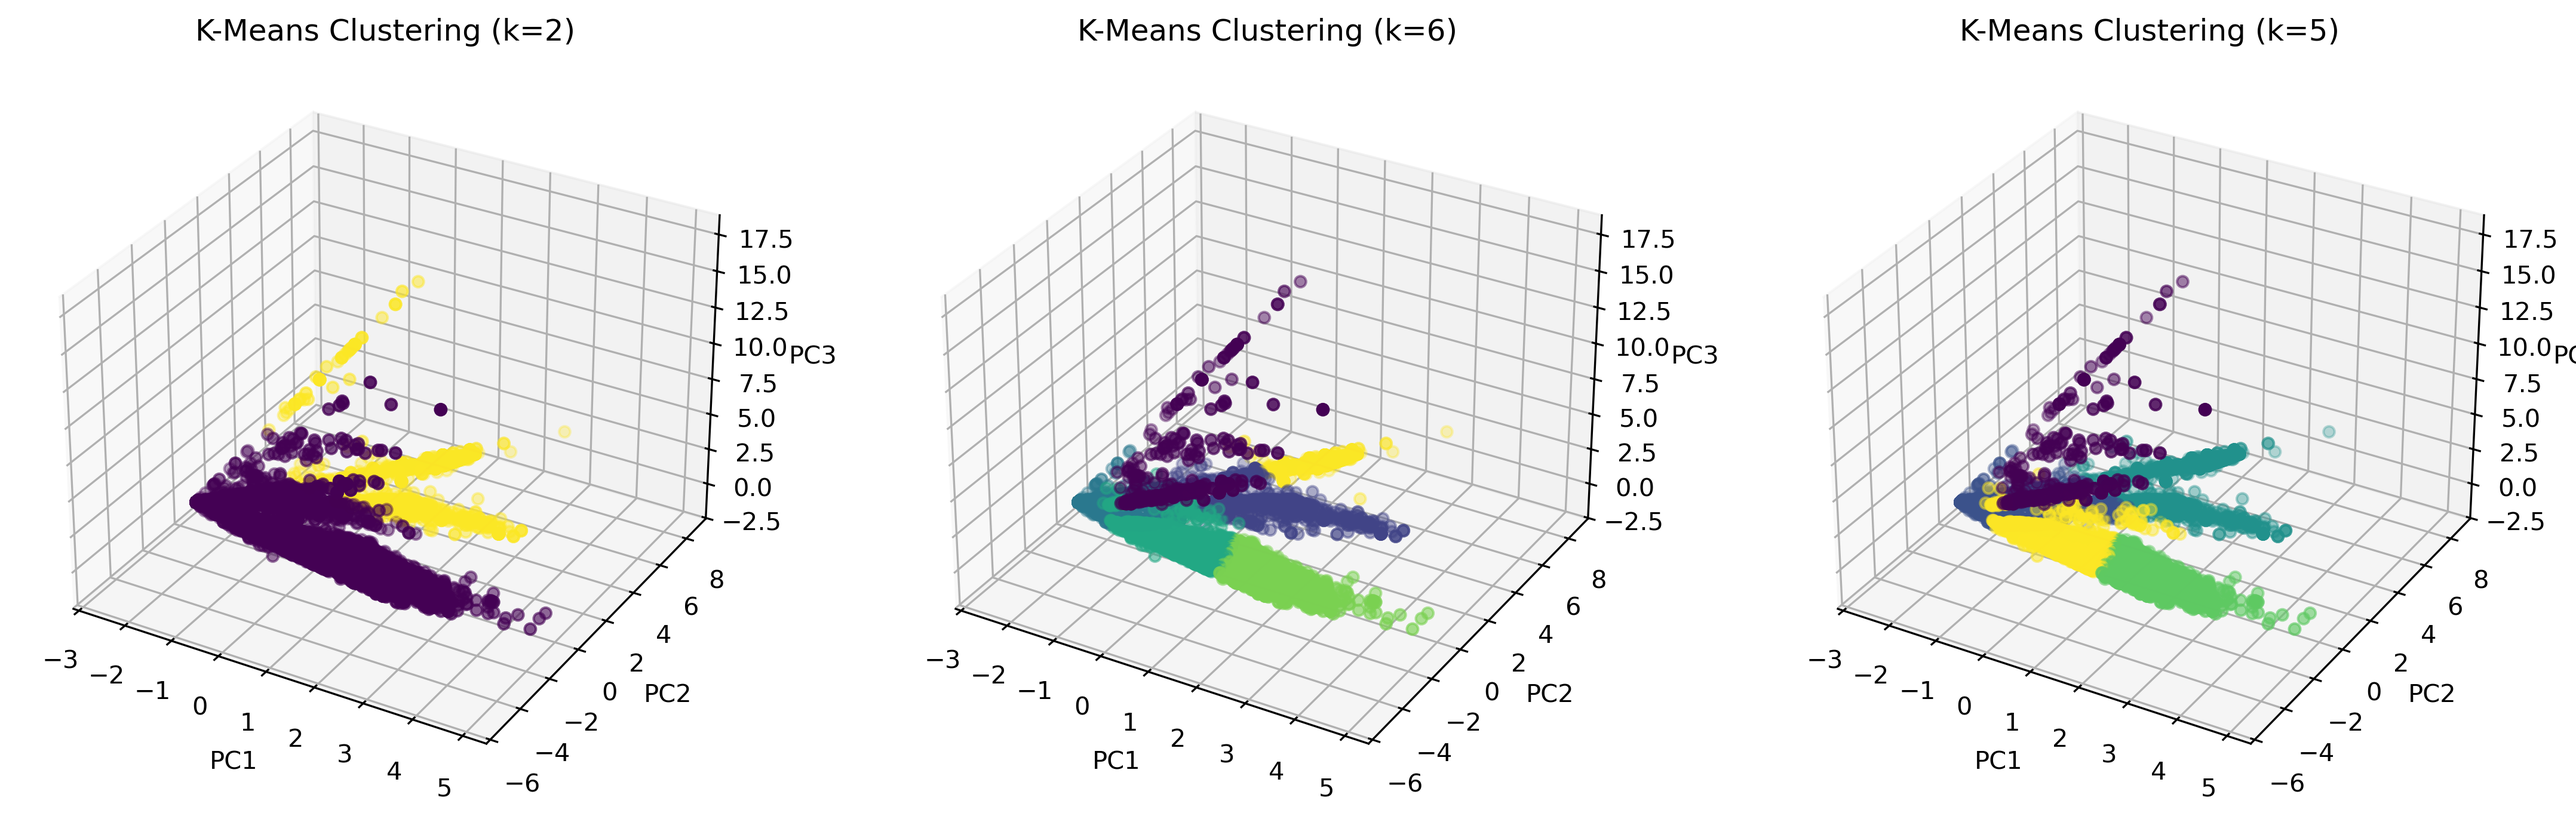
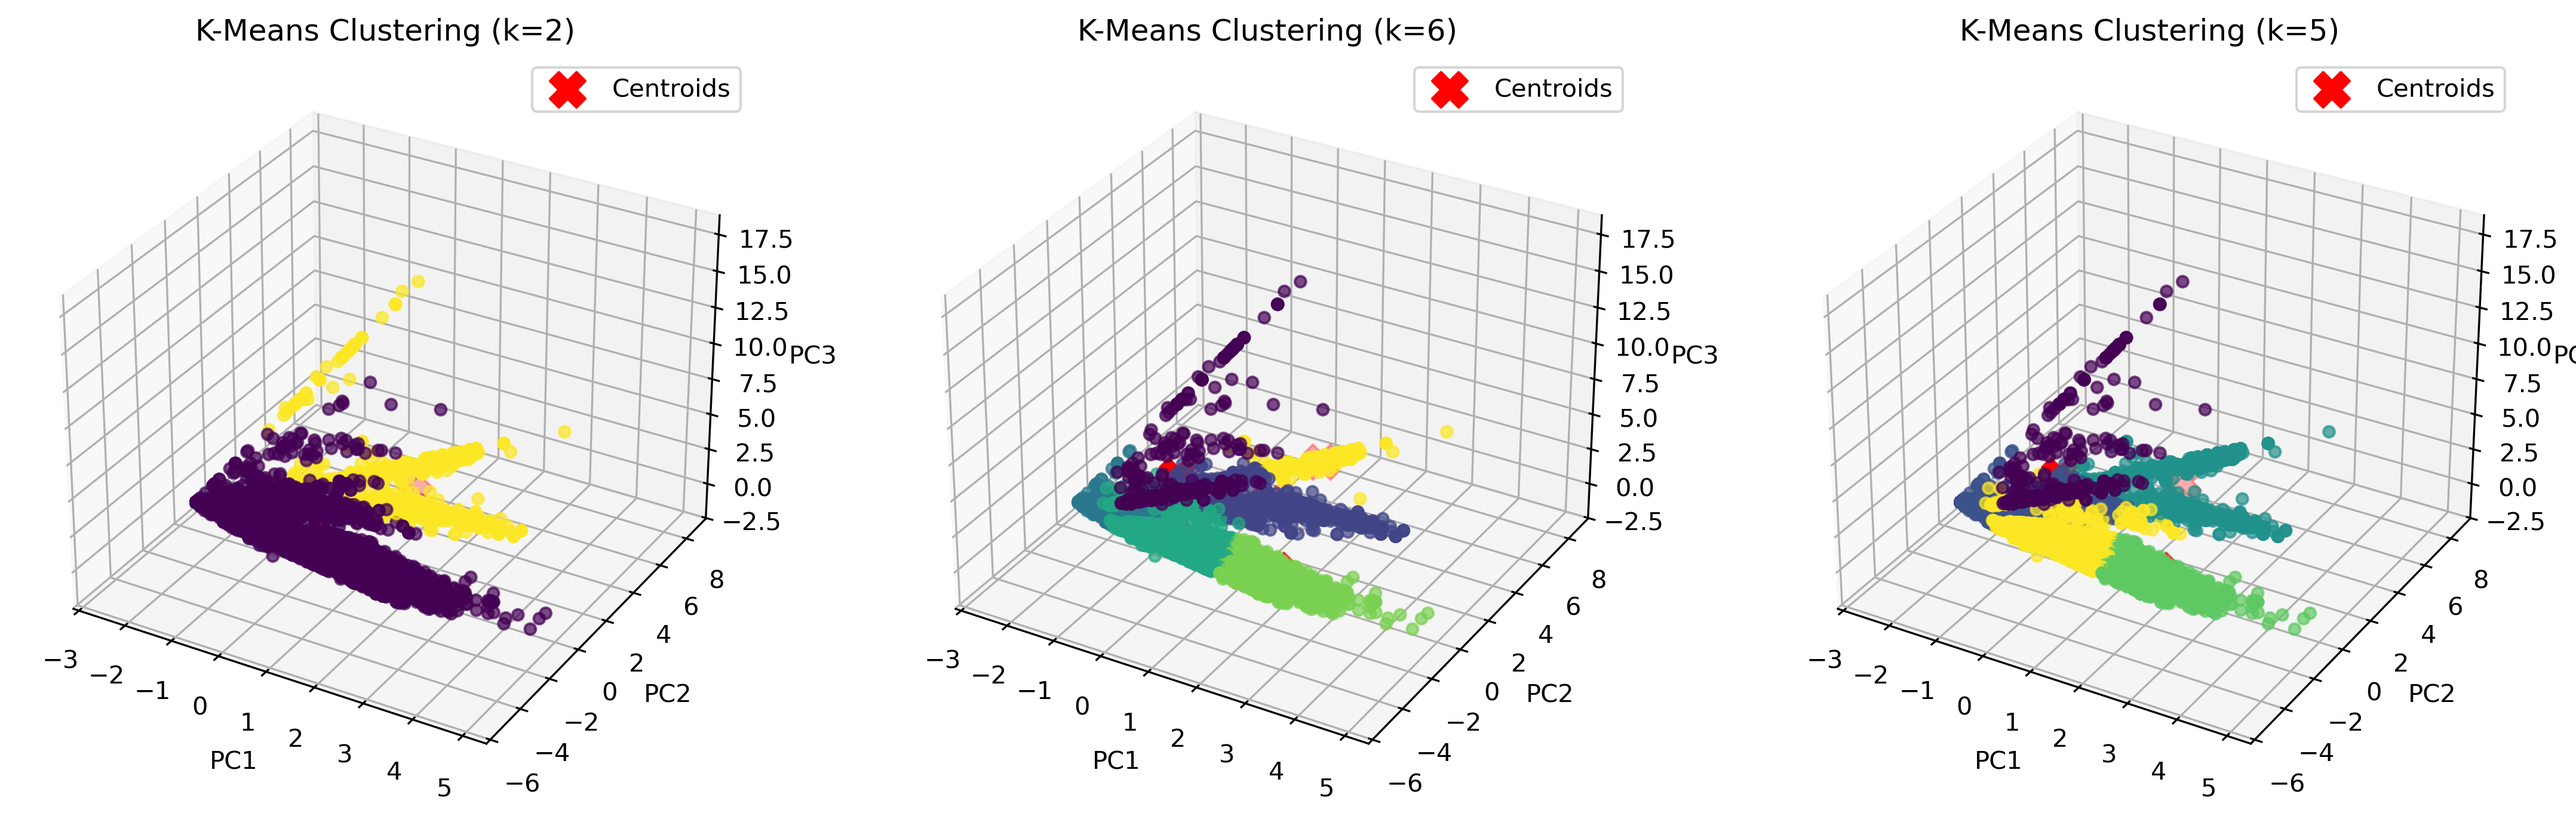
centroids

diff --git a/kmeans_clusters.py b/kmeans_clusters.py
@@ -47,19 +47,30 @@ for i, k in enumerate(best_k_values, 1):
     kmeans = KMeans(n_clusters=k, random_state=42, n_init=10)
     df_pca[f'Cluster_k{k}'] = kmeans.fit_predict(df_pca)
 
+    # Get centroid positions
+    centroids = kmeans.cluster_centers_
+
+    # Create 3D subplot
     ax = fig.add_subplot(1, 3, i, projection='3d')
-    ax.scatter(df_pca['PC1'], df_pca['PC2'], df_pca['PC3'], c=df_pca[f'Cluster_k{k}'], cmap='viridis')
+    scatter = ax.scatter(df_pca['PC1'], df_pca['PC2'], df_pca['PC3'], 
+                         c=df_pca[f'Cluster_k{k}'], cmap='viridis', alpha=0.7)
+    
+    # Plot centroids
+    ax.scatter(centroids[:, 0], centroids[:, 1], centroids[:, 2], 
+               c='red', marker='X', s=200, label='Centroids')
+
     ax.set_title(f"K-Means Clustering (k={k})")
     ax.set_xlabel("PC1")
     ax.set_ylabel("PC2")
     ax.set_zlabel("PC3")
+    ax.legend()
 
-# Save the 3D clustering visualization
+# Save the 3D clustering visualization with centroids
 kmeans_plot_path = os.path.join(visuals_path, "KMeans_Clusters_3D.png")
 plt.savefig(kmeans_plot_path, dpi=300, bbox_inches="tight")
 plt.show()
 
-print(f"✅ K-Means 3D Clusters plot saved at: {kmeans_plot_path}")
+print(f"✅ K-Means 3D Clusters plot with centroids saved at: {kmeans_plot_path}")
 
 # Save clustered data for later comparison
 df_pca.to_csv("data/kmeans_clusters.csv", index=False)
